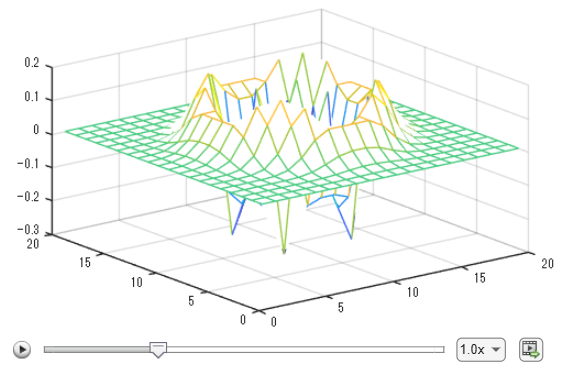
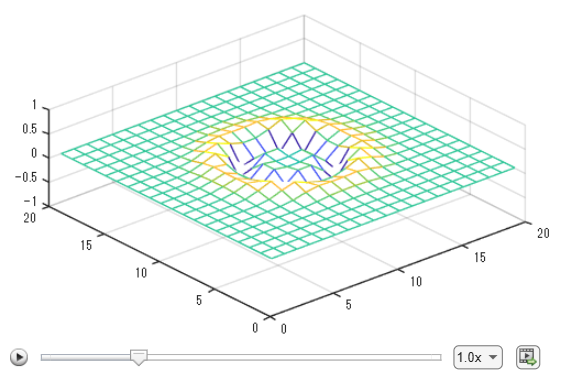
Add files via upload

diff --git a/README.md b/README.md
@@ -18,7 +18,7 @@
 
 本リポジトリのコンテンツをとりまとめた2026年7月現在，生成AIの台頭に伴い，高校での数学・物理・情報I，大学での数学・物理学・デジタルデータの科学や工学の，学び方や教え方が大きく変わりつつあります．入学したての大学1年生にも理解してもらえるレベルのものから，専門的な説明までを用意しました．
 
-本教材は，従来の物理シミュレーション教育で頻繁に用いられる手法`[4]`の詳細な数学的解説を経ずに，シンプルな漸化式を動かすだけで，隣り合う数値同士の結びつきから生じるダイナミックな変化を視覚的かつ直感的に学べるように設計されています．
+本教材は，従来の物理シミュレーション教育で頻繁に用いられる手法`[4]`の詳細な数学的解説を経ずに，シンプルな漸化式の係数をわずかに動かすだけで，異なる曲線に一変する様子を視覚的かつ直感的に学べるように設計されています．
 
 本GitHubリポジトリのオープン教育リソースによって，大学の数理・物理・数値と情報処理の，科学と工学が全くのブラックボックスではないと直感していただけるだけでもありがたいですし，大学での学びがブラックボックスの透視力を上げ，自分で設計できる力も涵養してくれると感じていただけるともっとありがたいです．
 
